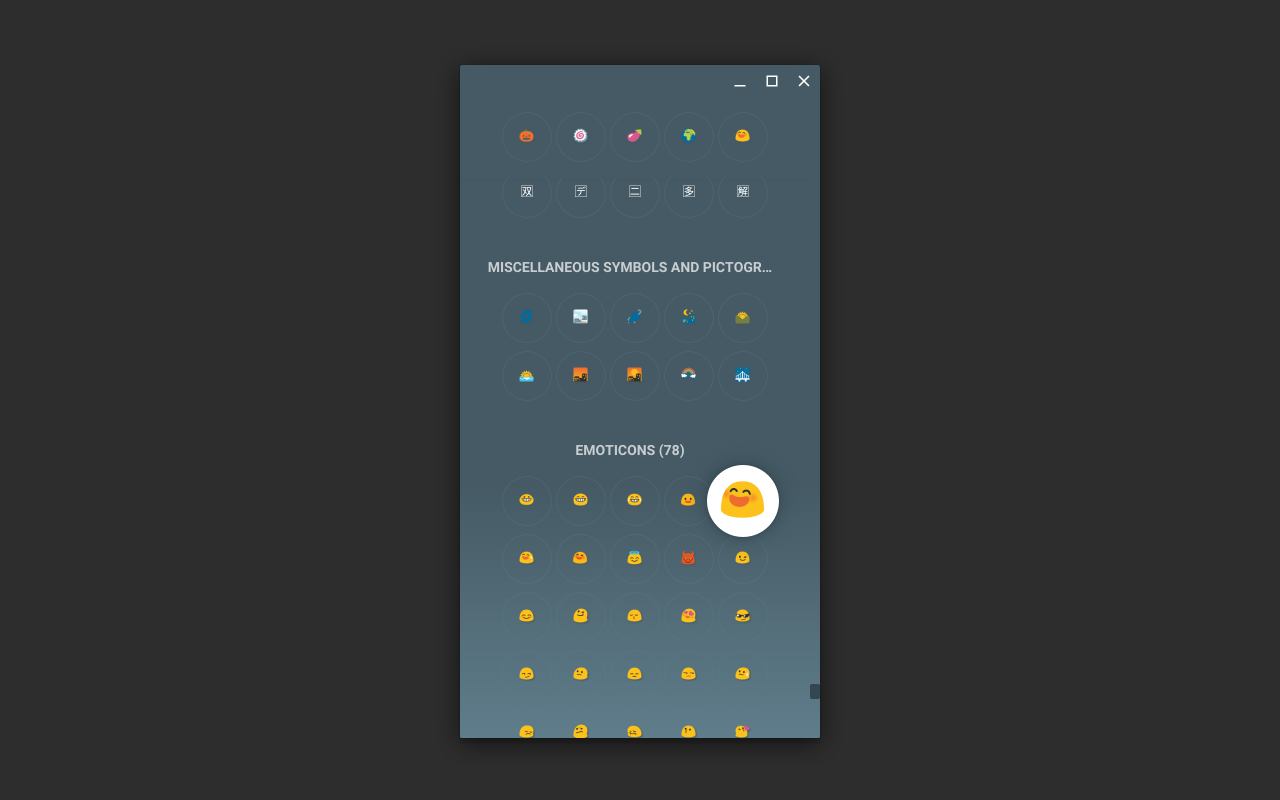
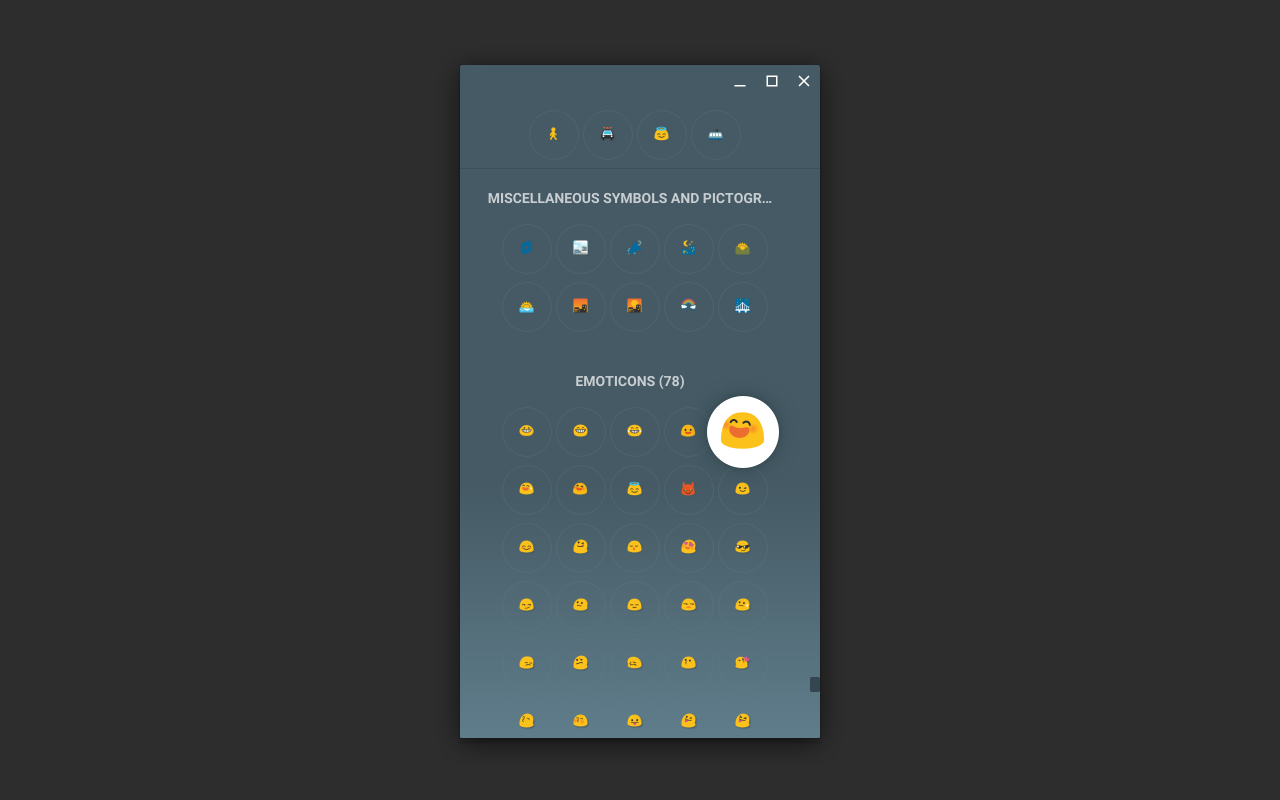
Improved UI

diff --git a/src/index.js b/src/index.js
@@ -15,7 +15,7 @@ xhr.onload = function() {
   chrome.storage.sync.get('lastBlock', function(data) {
     var lastBlock = data.lastBlock || 'Emoticons';
     var div = document.querySelector('[data-block="' + lastBlock + '"]');
-    div.scrollIntoView(false);
+    div.scrollIntoView();
     chrome.app.window.current().show();
   });
 }
@@ -60,8 +60,12 @@ function updateFavorites() {
   chrome.storage.sync.get('favorites', function(data) {
     var favorites = data.favorites || [];
     var favoritesHtml = '';
-    for (var i = 0; i < favorites.length; i++) {
-      favoritesHtml += '<span title="' + favorites[i].name + '">' + favorites[i].unicode + '</span>';
+    if (!favorites.length) {
+      favoritesHtml = '<span></span><span></span><span></span><span></span><span></span>';
+    } else {
+      for (var i = 0; i < favorites.length; i++) {
+        favoritesHtml += '<span title="' + favorites[i].name + '">' + favorites[i].unicode + '</span>';
+      }
     }
     document.querySelector('#favorites').innerHTML = favoritesHtml;
   });

diff --git a/src/index.html b/src/index.html
@@ -58,7 +58,7 @@ span {
     overflow: hidden;
     transition: all .1s;
 }
-span:hover {
+span[title]:hover {
     background-color: white;
     color: #000;
     text-shadow: none;
@@ -79,17 +79,21 @@ span:hover {
     }
 }
 #unicode {
-    margin-top: 70px;
-    box-shadow: inset 0 -1px 0 red;
+    position: fixed;
+    top: 70px;
+    width: 100%;
+    height: calc(100% - 70px);
+    overflow-y: scroll;
+    border-top: 1px solid #3C515A;
+    left: 0px;
 }
 #favorites {
     position: fixed;
     top: 0px;
     width: calc(100% - 10px);
-    background: linear-gradient(180deg, #455A64 90%, transparent 100%) no-repeat transparent;
+    background-color: #455A64;
     text-align: center;
-    padding-top: 12px;
-    height: 72px;
+    padding-top: 10px;
     left: 0px;
 }
   </style>
